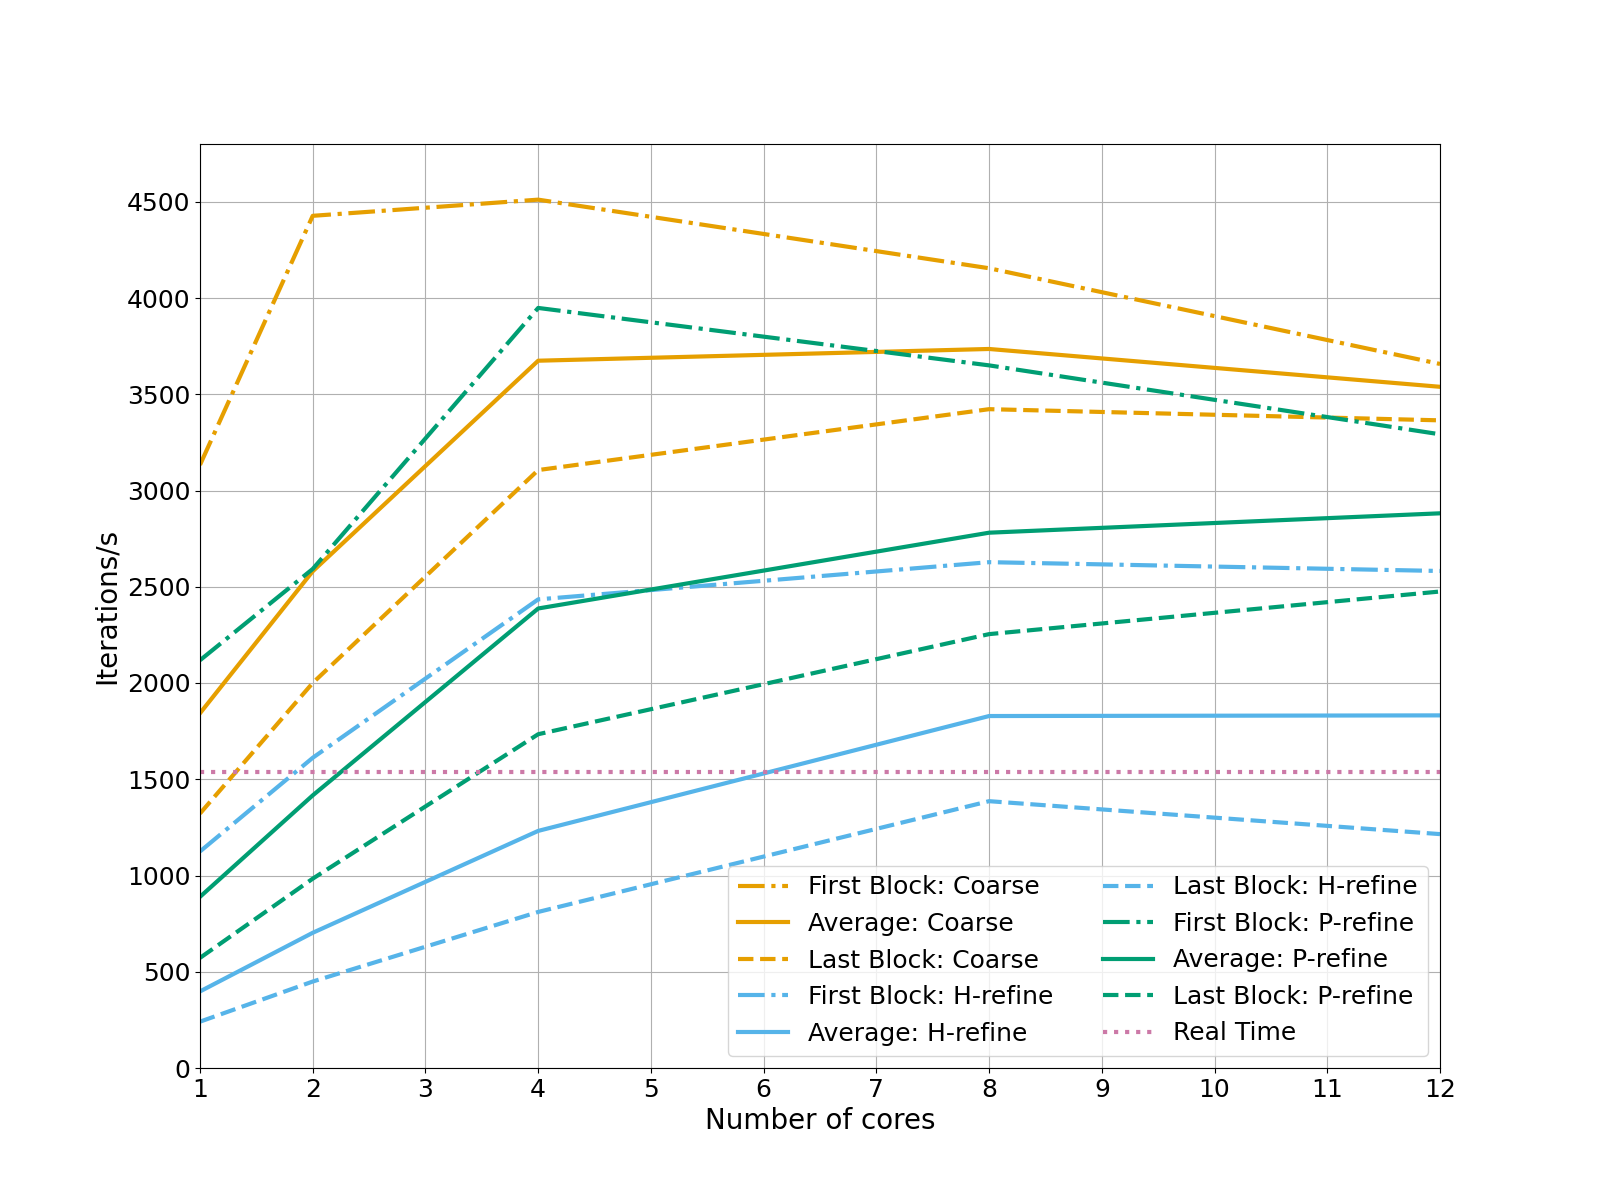
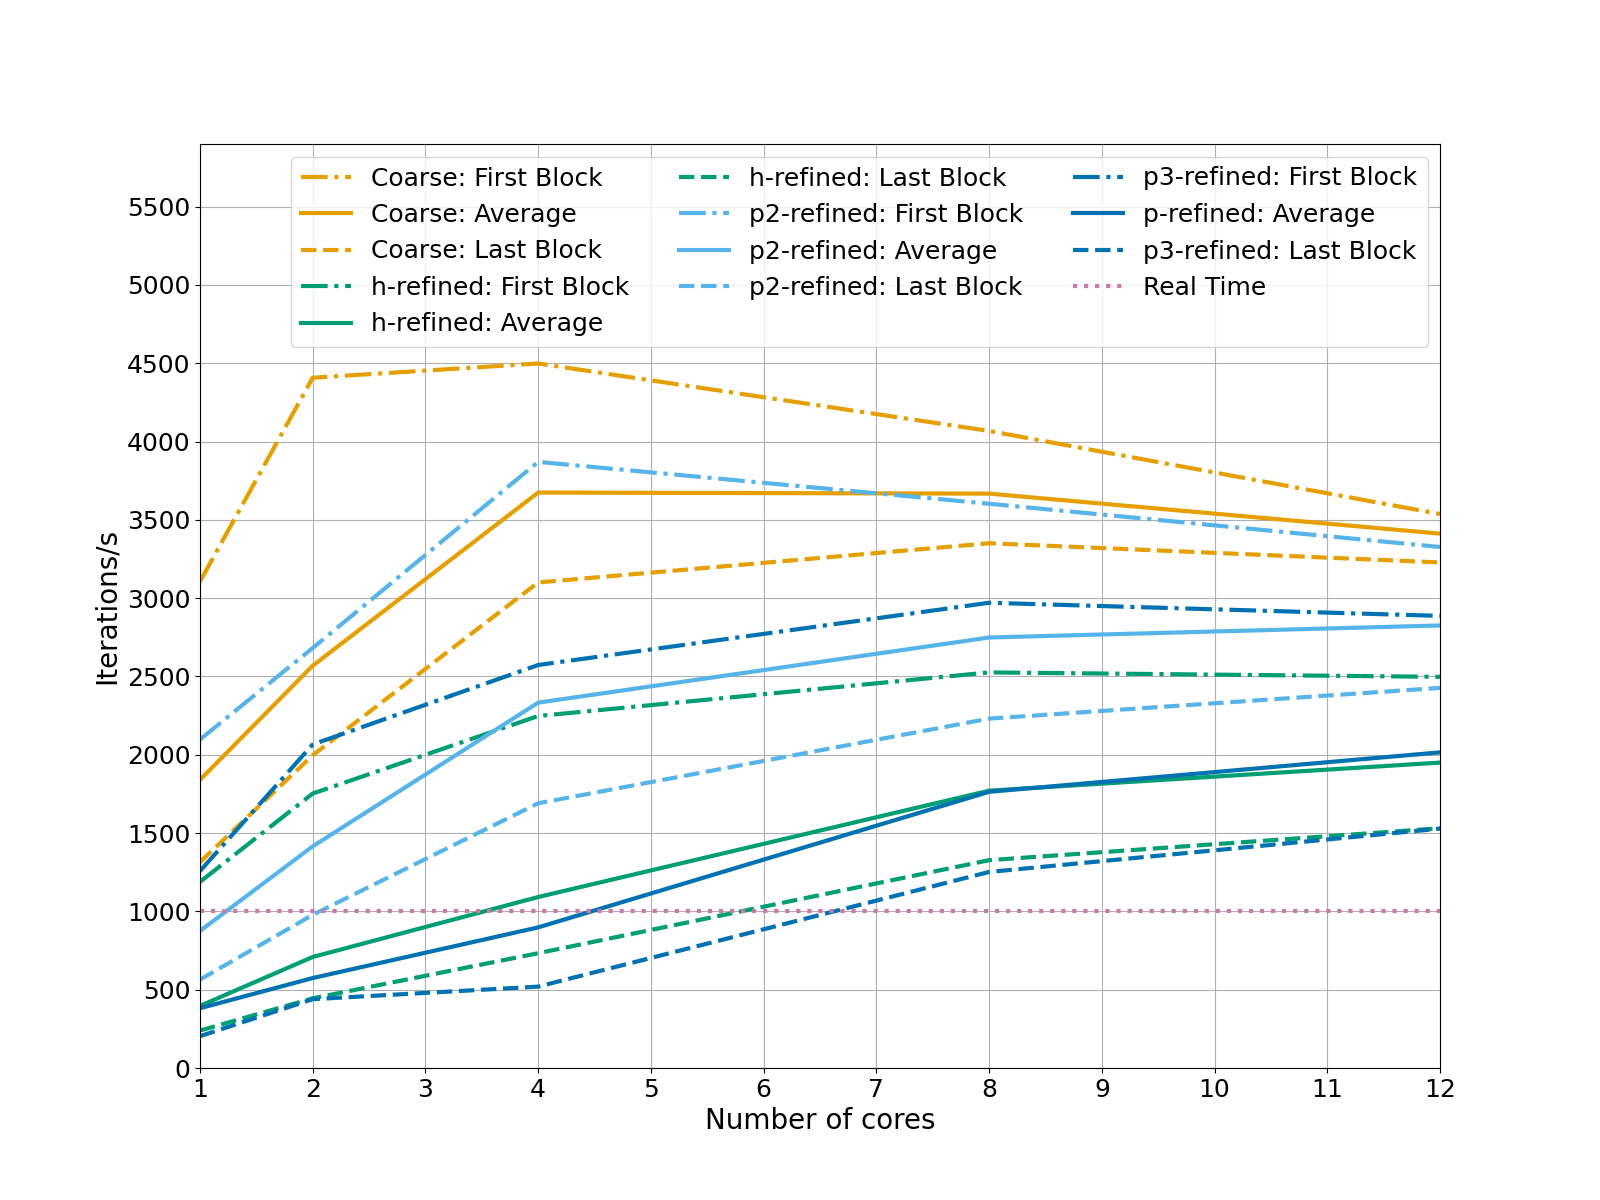
Update figures

diff --git a/performance/dwell_rook/analysis.py b/performance/dwell_rook/analysis.py
@@ -4,77 +4,111 @@ import matplotlib.pyplot as plt
 from matplotlib.ticker import MultipleLocator
 import numpy as np
 
-colors = ['#E69F00', '#56B4E9', '#009E73', '#CC79A7']
+colors = ['#E69F00', '#56B4E9', '#009E73', '#0072b2', '#CC79A7']
 color_coarse = colors[0]
-color_fine = colors[1]
-color_p2 = colors[2]
-color_ideal = colors[3]
+color_fine = colors[2]
+color_p2 = colors[1]
+color_p3 = colors[3]
+color_ideal = colors[4]
 
 n_procs = [1, 2, 4, 8, 12]
 
 # Coarse Mesh
 #------------
-time_coarse = [9266.1, 6617.7, 4647.7, 4571.9, 4825.8]
-ideal_strong_time_coarse = [9266.1, 9266.1/2, 9266.1/4, 9266.1/8, 9266.1/12]
+time_coarse = [6031.9, 4320.7, 3020.7, 3026.3, 3252.9]
+time_coarse_0 = time_coarse[0]
+ideal_strong_time_coarse = [time_coarse_0, time_coarse_0/2, time_coarse_0/4,
+        time_coarse_0/8, time_coarse_0/12]
 
-speedup_coarse = [9266.1/9266.1, 9266.1/6617.7, 9266.1/4647.7, 9266.1/4571.9, 9266.1/4825.8]
-efficiency_coarse = [9266.1/9266.1, 9266.1/(6617.7*2), 9266.1/(4647.7*4),
-        9266.1/(4571.9*8), 9266.1/(4825.8*12)]
+speedup_coarse = [time_coarse_0/x for x in time_coarse]
+efficiency_coarse = [time_coarse_0/time_coarse_0, time_coarse_0/(time_coarse[1]*2),
+        time_coarse_0/(time_coarse[2]*4), time_coarse_0/(time_coarse[3]*8),
+        time_coarse_0/(time_coarse[4]*12)]
 
-min_throughput_coarse = [903.5, 1580.4, 2545.2, 2549.4, 1877.2]
-max_throughput_coarse = [3958.1, 4648.5, 4705.7, 4329.8, 3935.5]
-average_throughput_coarse = [1842.9, 2580.4, 3674.2, 3735.2, 3538.7]
-realtime_throughput_coarse = [1538.4, 1538.4, 1538.4, 1538.4, 1538.4]
-first_block_throughput_coarse = [3132.9, 4426.9, 4510.9, 4154.5, 3657.4]
-last_block_throughput_coarse = [1322.0, 2000.3, 3106.2, 3422.5, 3364.4]
-average_throughput_speedup_coarse = [1842.9/1842.9, 2580.4/1842.9, 3674.2/1842.9, 3735.2/1842.9, 3538.7/1842.9]
-first_block_throughput_speedup_coarse = [3132.9/3132.9, 4426.9/3132.9, 4510.9/3132.9, 4154.5/3132.9,
-        3657.4/3132.9]
-last_block_throughput_speedup_coarse = [1322.0/1322.0, 2000.3/1322.0, 3106.2/1322.0, 3422.5/1322.0,
-        3364.4/1322.0]
+average_throughput_coarse = [1840.1, 2568.8, 3674.4, 3667.6, 3412.1]
+realtime_throughput_coarse = [1000, 1000, 1000, 1000, 1000]
+first_block_throughput_coarse = [3106.7, 4407.5, 4498.6, 4067.8, 3537.2]
+last_block_throughput_coarse = [1314.9, 1996.9, 3100.4, 3350.6, 3228.2]
+average_throughput_coarse_0 = average_throughput_coarse[0]
+average_throughput_speedup_coarse = [x/average_throughput_coarse_0 for x in average_throughput_coarse]
+first_throughput_coarse_0 = first_block_throughput_coarse[0]
+first_block_throughput_speedup_coarse = [x/first_throughput_coarse_0 for x in first_block_throughput_coarse]
+last_throughput_coarse_0 = last_block_throughput_coarse[0]
+last_block_throughput_speedup_coarse = [x/last_throughput_coarse_0 for x in last_block_throughput_coarse]
 
-eval_percent_coarse = [76.24, 67.0, 70.1, 61.3, 58.6]
+eval_percent_coarse = [75.8, 66.6, 69.6, 60.9, 58.4]
 
 # Fine Mesh
 #----------
-time_fine = [42928.1, 24310.6, 13864.4, 9339.8, 9322.2]
-ideal_strong_time_fine = [42928.1, 42928.1/2 ,42928.1/4, 42928.1/8, 42928.1/12]
+time_fine = [27993.6, 15656.3, 10166.0, 6267.9, 5691.6]
+time_fine_0 = time_fine[0]
+ideal_strong_time_fine = [time_fine_0, time_fine_0/2, time_fine_0/4,
+        time_fine_0/8, time_fine_0/12]
 
-speedup_fine = [42928.1/42928.1, 42928.1/24310.6, 42928.1/13864.4, 42928.1/9339.8, 42928.1/9322.2]
-efficiency_fine = [42928.1/42928.1, 42928.1/(24310.6*2), 42928.1/(13864.4*4),
-        42928.1/(9339.8*8), 42928.1/(9322.2*12)] 
+speedup_fine = [time_fine_0/x for x in time_fine]
+efficiency_fine = [time_fine_0/time_fine_0, time_fine_0/(time_fine[1]*2),
+        time_fine_0/(time_fine[2]*4), time_fine_0/(time_fine[3]*8),
+        time_fine_0/(time_fine[4]*12)]
 
-min_throughput_fine = [1.5, 1.8, 13.5, 1.9, 1.8]
-max_throughput_fine = [1264.7, 1783.9, 2669.0, 2904.3, 2923.3]
-average_throughput_fine = [397.8, 702.4, 1231.7, 1828.4, 1831.8]
-first_block_throughput_fine = [1124.9, 1611.5, 2434.4, 2627.7, 2581.9]
-last_block_throughput_fine = [240.7, 449.2, 810.7, 1386.1, 1215.0]
-average_throughput_speedup_fine = [397.8/397.8, 702.4/397.8, 1231.7/397.8, 1828.4/397.8, 1831.8/397.8]
-first_block_throughput_speedup_fine = [1124.9/1124.9, 1611.5/1124.9, 2434.4/1124.9, 2627.7/1124.9, 2581.9/1124.9]
-last_block_throughput_speedup_fine = [240.7/240.7, 449.2/240.7, 810.7/240.7, 1386.1/240.7, 1215.0/240.7]
+average_throughput_fine = [396.5, 708.9, 1091.8, 1770.8, 1950.1]
+first_block_throughput_fine = [1188.5, 1752.5, 2247.6, 2525.9, 2497.7]
+last_block_throughput_fine = [239.0, 444.9, 733.0, 1327.0, 1530.8]
+average_throughput_fine_0 = average_throughput_fine[0]
+average_throughput_speedup_fine = [x/average_throughput_fine_0 for x in average_throughput_fine]
+first_throughput_fine_0 = first_block_throughput_fine[0]
+first_block_throughput_speedup_fine = [x/first_throughput_fine_0 for x in first_block_throughput_fine]
+last_throughput_fine_0 = last_block_throughput_fine[0]
+last_block_throughput_speedup_fine = [x/last_throughput_fine_0 for x in last_block_throughput_fine]
 
-eval_percent_fine = [93.6, 88.7, 87.5, 77.8, 73.5]
+eval_percent_fine = [95.3, 90.7, 86.7, 77.5, 72.1]
 
-# P-Refinement
-#-------------
-time_p2 = [19202.9, 12057.6, 7153.9, 6141.0, 5926.4]
-ideal_strong_time_p2 = [19202.9, 19202.9/2, 19202.9/4, 19202.9/8, 19202.9/12]
+# P2-Refinement
+#--------------
+time_p2 = [12682.6, 7836.5, 4757.7, 4037.8, 3927.9]
+time_p2_0 = time_p2[0]
+ideal_strong_time_p2 = [time_p2_0, time_p2_0/2, time_p2_0/4,
+        time_p2_0/8, time_p2_0/12]
 
-speedup_p2 = [19202.9/19202.9, 19202.9/12057.6, 19202.9/7153.9, 19202.9/6141.0,
-        19202.9/5926.4]
-efficiency_p2 = [19202.9/19202.9, 19202.9/(12057.6*2), 19202.9/(7153.9*4),
-        19202.9/(6141.0*8), 19202.9/(5926.4*12)] 
+speedup_p2 = [time_p2_0/x for x in time_p2]
+efficiency_p2 = [time_p2_0/time_p2_0, time_p2_0/(time_p2[1]*2),
+        time_p2_0/(time_p2[2]*4), time_p2_0/(time_p2[3]*8),
+        time_p2_0/(time_p2[4]*12)]
 
-min_throughput_p2 = [355.6, 694.8, 434.0, 1756.5, 1560.6]
-max_throughput_p2 = [2303.9, 2748.1, 4230.7, 3809.2, 3770.7]
-average_throughput_p2 = [889.2, 1416.2, 2387.1, 2780.8, 2881.5]
-first_block_throughput_p2 = [2118.2, 2592.5, 3948.4, 3650.0, 3292.0]
-last_block_throughput_p2 = [572.0, 983.5, 1733.9, 2253.9, 2475.3]
-average_throughput_speedup_p2 = [889.2/889.2, 1416.2/889.2, 2387.1/889.2, 2780.8/889.2, 2881.5/889.2]
-first_block_throughput_speedup_p2 = [2118.2/2118.2, 2592.5/2118.2, 3948.4/2118.2, 3650.0/2118.2, 3292.0/2118.2]
-last_block_throughput_speedup_p2 = [572.0/572.0, 983.5/572.0, 1733.9/572.0, 2253.9/572.0, 2475.3/572.0]
+average_throughput_p2 = [875.1, 1415.3, 2332.9, 2748.8, 2825.7]
+first_block_throughput_p2 = [2097.4, 2682.0, 3870.1, 3602.9, 3326.9]
+last_block_throughput_p2 = [564.3, 978.2, 1690.4, 2230.8, 2427.2]
+average_throughput_p2_0 = average_throughput_p2[0]
+average_throughput_speedup_p2 = [x/average_throughput_p2_0 for x in average_throughput_p2]
+first_throughput_p2_0 = first_block_throughput_p2[0]
+first_block_throughput_speedup_p2 = [x/first_throughput_p2_0 for x in first_block_throughput_p2]
+last_throughput_p2_0 = last_block_throughput_p2[0]
+last_block_throughput_speedup_p2 = [x/last_throughput_p2_0 for x in last_block_throughput_p2]
 
-eval_percent_fine = [87.9, 79.6, 79.6, 68.9, 64.6]
+eval_percent_fine = [87.8, 79.7, 79.2, 68.7, 64.2]
+
+# P3-Refinement
+#--------------
+time_p3 = [29076.8, 19321.7, 12362.0, 6293.8, 5507.1]
+time_p3_0 = time_p3[0]
+ideal_strong_time_p3 = [time_p3_0, time_p3_0/2, time_p3_0/4,
+        time_p3_0/8, time_p3_0/12]
+
+speedup_p3 = [time_p3_0/x for x in time_p3]
+efficiency_p3 = [time_p3_0/time_p3_0, time_p3_0/(time_p3[1]*2),
+        time_p3_0/(time_p3[2]*4), time_p3_0/(time_p3[3]*8),
+        time_p3_0/(time_p3[4]*12)]
+
+average_throughput_p3 = [381.7, 574.4, 897.8, 1763.5, 2015.4]
+first_block_throughput_p3 = [1257.6, 2065.9, 2573.2, 2970.6, 2886.9]
+last_block_throughput_p3 = [203.3, 439.4, 519.7, 1251.8, 1528.3]
+average_throughput_p3_0 = average_throughput_p3[0]
+average_throughput_speedup_p3 = [x/average_throughput_p3_0 for x in average_throughput_p3]
+first_throughput_p3_0 = first_block_throughput_p3[0]
+first_block_throughput_speedup_p3 = [x/first_throughput_p3_0 for x in first_block_throughput_p3]
+last_throughput_p3_0 = last_block_throughput_p3[0]
+last_block_throughput_speedup_p3 = [x/last_throughput_p3_0 for x in last_block_throughput_p3]
+
+eval_percent_fine = [94.0, 91.9, 88.0, 76.5, 71.6]
 
 ######################
 # PLOT PARAMETERS
@@ -93,16 +127,21 @@ ideal_strong_coarse_plt, = plt.loglog(n_procs, ideal_strong_time_coarse, '--',
         color = color_ideal, linewidth = 3, markersize = 12,
         label='Ideal Strong Scaling')
 time_fine_plt, = plt.loglog(n_procs, time_fine, '*-', color = color_fine, linewidth = 3, markersize = 12,
-        label='H-refined Simulation')
+        label='h-refined Simulation')
 ideal_strong_fine_plt, = plt.loglog(n_procs, ideal_strong_time_fine, '--', color
         = color_ideal, linewidth = 3, markersize = 12,
         label='Ideal Strong Scaling')
 time_p2_plt, = plt.loglog(n_procs, time_p2, '*-',  color = color_p2, linewidth = 3, markersize = 12,
-        label='P-refine Simulation')
+        label='p2-refine Simulation')
 ideal_strong_p2_plt, = plt.loglog(n_procs, ideal_strong_time_p2, '--', color =
         color_ideal, linewidth = 3, markersize = 12,
         label='Ideal Strong Scaling')
-ax.legend(handles=[time_coarse_plt, time_fine_plt, time_p2_plt, ideal_strong_coarse_plt], fontsize = 18)
+time_p3_plt, = plt.loglog(n_procs, time_p3, '*-',  color = color_p3, linewidth = 3, markersize = 12,
+        label='p3-refine Simulation')
+ideal_strong_p3_plt, = plt.loglog(n_procs, ideal_strong_time_p3, '--', color =
+        color_ideal, linewidth = 3, markersize = 12,
+        label='Ideal Strong Scaling')
+ax.legend(handles=[time_coarse_plt, time_fine_plt, time_p2_plt, time_p3_plt, ideal_strong_coarse_plt], fontsize = 18)
 plt.xlabel('Number of cores', fontsize = 20)
 plt.ylabel('Time (s)', fontsize = 20)
 ax.grid(which='both')
@@ -119,13 +158,20 @@ speedup_coarse_plt, = plt.plot(n_procs, speedup_coarse, '-', color =
         label='Coarse Simulation')
 speedup_fine_plt, = plt.plot(n_procs, speedup_fine, '-', color =
         color_fine, linewidth = 3, markersize = 12,
-        label='H-refined Simulation')
+        label='h-refined Simulation')
 speedup_p2_plt, = plt.plot(n_procs, speedup_p2, '-', color =
         color_p2, linewidth = 3, markersize = 12,
-        label='P-refined Simulation')
+        label='p2-refined Simulation')
+speedup_p3_plt, = plt.plot(n_procs, speedup_p3, '-', color =
+        color_p3, linewidth = 3, markersize = 12,
+        label='p3-refined Simulation')
 ideal_speedup_plt, = plt.plot(n_procs, n_procs , '-', color = color_ideal, linewidth = 3, markersize = 12,
         label='Ideal Scaling')
-ax.legend(handles=[speedup_coarse_plt, speedup_fine_plt, speedup_p2_plt,  ideal_speedup_plt], fontsize = 18)
+plt.xlim(1, 12)
+plt.ylim(1, 8)
+plt.xticks(np.arange(1, 13, 1))
+plt.yticks(np.arange(1, 9, 1))
+ax.legend(handles=[speedup_coarse_plt, speedup_fine_plt, speedup_p2_plt, speedup_p3_plt, ideal_speedup_plt], fontsize = 18)
 plt.xlabel('Number of cores', fontsize = 20)
 plt.ylabel('Speedup', fontsize = 20)
 ax.grid(which='both')
@@ -140,44 +186,54 @@ fig, ax = plt.subplots(figsize=(16, 12), dpi = 100)
 
 avg_coarse_plt, = plt.plot(n_procs, average_throughput_coarse, '-', color =
         color_coarse, linewidth = 3, markersize = 12,
-        label='Average: Coarse')
+        label='Coarse: Average')
 first_coarse_plt, = plt.plot(n_procs, first_block_throughput_coarse, '-.', color
         = color_coarse, linewidth = 3, 
-        markersize = 12, label='First Block: Coarse')
+        markersize = 12, label='Coarse: First Block')
 last_coarse_plt, = plt.plot(n_procs, last_block_throughput_coarse, '--', color =
         color_coarse, linewidth = 3, 
-        markersize = 12, label='Last Block: Coarse')
+        markersize = 12, label='Coarse: Last Block')
 
 avg_fine_plt, = plt.plot(n_procs, average_throughput_fine, '-', color =
         color_fine, linewidth = 3, markersize = 12,
-        label='Average: H-refine')
+        label='h-refined: Average')
 first_fine_plt, = plt.plot(n_procs, first_block_throughput_fine, '-.', color =
         color_fine, linewidth = 3, 
-        markersize = 12, label='First Block: H-refine')
+        markersize = 12, label='h-refined: First Block')
 last_fine_plt, = plt.plot(n_procs, last_block_throughput_fine, '--', color =
         color_fine, linewidth = 3, 
-        markersize = 12, label='Last Block: H-refine')
+        markersize = 12, label='h-refined: Last Block')
 
 avg_p2_plt, = plt.plot(n_procs, average_throughput_p2, '-', color =
         color_p2, linewidth = 3, markersize = 12,
-        label='Average: P-refine')
+        label='p2-refined: Average')
 first_p2_plt, = plt.plot(n_procs, first_block_throughput_p2, '-.',
         color = color_p2, linewidth = 3, 
-        markersize = 12, label='First Block: P-refine')
+        markersize = 12, label='p2-refined: First Block')
 last_p2_plt, = plt.plot(n_procs, last_block_throughput_p2, '--', color
         = color_p2, linewidth = 3, 
-        markersize = 12, label='Last Block: P-refine')
+        markersize = 12, label='p2-refined: Last Block')
+
+avg_p3_plt, = plt.plot(n_procs, average_throughput_p3, '-', color =
+        color_p3, linewidth = 3, markersize = 12,
+        label='p-refined: Average')
+first_p3_plt, = plt.plot(n_procs, first_block_throughput_p3, '-.',
+        color = color_p3, linewidth = 3, 
+        markersize = 12, label='p3-refined: First Block')
+last_p3_plt, = plt.plot(n_procs, last_block_throughput_p3, '--', color
+        = color_p3, linewidth = 3, 
+        markersize = 12, label='p3-refined: Last Block')
 
 realtime_coarse_plt, = plt.plot(n_procs, realtime_throughput_coarse, ':', color
         = color_ideal, linewidth = 3, markersize = 12, label='Real Time')
 ax.legend(handles=[first_coarse_plt, avg_coarse_plt, last_coarse_plt,
     first_fine_plt, avg_fine_plt, last_fine_plt, first_p2_plt, avg_p2_plt,
-    last_p2_plt, realtime_coarse_plt], ncols = 2, fontsize = 18)
+    last_p2_plt, first_p3_plt, avg_p3_plt, last_p3_plt, realtime_coarse_plt], ncols = 3, fontsize = 18)
 #plt.title('Throughput' , fontsize = 20)
 plt.xlabel('Number of cores', fontsize = 20)
 plt.ylabel('Iterations/s', fontsize = 20)
 plt.xlim(1, 12)
-plt.ylim(0, 4800)
+plt.ylim(0, 5900)
 ax.xaxis.set_major_locator(MultipleLocator(1))
 ax.yaxis.set_major_locator(MultipleLocator(500))
 ax.grid(True)
@@ -192,39 +248,53 @@ fig, ax = plt.subplots(figsize=(16, 12), dpi = 100)
 
 avg_speedup_coarse_plt, = plt.plot(n_procs, average_throughput_speedup_coarse, '-', color =
         color_coarse, linewidth = 3, markersize = 12,
-        label='Average: Coarse')
+        label='Coarse: Average')
 first_speedup_coarse_plt, = plt.plot(n_procs, first_block_throughput_speedup_coarse, '-.', color
         = color_coarse, linewidth = 3, 
-        markersize = 12, label='First Block: Coarse')
+        markersize = 12, label='Coarse: First Block')
 last_speedup_coarse_plt, = plt.plot(n_procs, last_block_throughput_speedup_coarse, '--', color =
         color_coarse, linewidth = 3, 
-        markersize = 12, label='Last Block: Coarse')
+        markersize = 12, label='Coarse: Last Block')
 
 avg_speedup_fine_plt, = plt.plot(n_procs, average_throughput_speedup_fine, '-', color =
         color_fine, linewidth = 3, markersize = 12,
-        label='Average: H-refine')
+        label='h-refined: Average')
 first_speedup_fine_plt, = plt.plot(n_procs, first_block_throughput_speedup_fine, '-.', color =
         color_fine, linewidth = 3, 
-        markersize = 12, label='First Block: H-refine')
+        markersize = 12, label='h-refined: First Block')
 last_speedup_fine_plt, = plt.plot(n_procs, last_block_throughput_speedup_fine, '--', color =
         color_fine, linewidth = 3, 
-        markersize = 12, label='Last Block: H-refine')
+        markersize = 12, label='h-refined: Last Block')
 
 avg_speedup_p2_plt, = plt.plot(n_procs, average_throughput_speedup_p2, '-', color =
         color_p2, linewidth = 3, markersize = 12,
-        label='Average: P-refine')
+        label='Average: P2-refine')
 first_speedup_p2_plt, = plt.plot(n_procs, first_block_throughput_speedup_p2, '-.',
         color = color_p2, linewidth = 3, 
-        markersize = 12, label='First Block: P-refine')
+        markersize = 12, label='p2-refined: First Block')
 last_speedup_p2_plt, = plt.plot(n_procs, last_block_throughput_speedup_p2, '--', color
         = color_p2, linewidth = 3, 
-        markersize = 12, label='Last Block: P-refine')
+        markersize = 12, label='p2-refined: Last Block')
+
+avg_speedup_p3_plt, = plt.plot(n_procs, average_throughput_speedup_p3, '-', color =
+        color_p3, linewidth = 3, markersize = 12,
+        label='Average: P3-refine')
+first_speedup_p3_plt, = plt.plot(n_procs, first_block_throughput_speedup_p3, '-.',
+        color = color_p3, linewidth = 3, 
+        markersize = 12, label='p3-refined: First Block')
+last_speedup_p3_plt, = plt.plot(n_procs, last_block_throughput_speedup_p3, '--', color
+        = color_p3, linewidth = 3, 
+        markersize = 12, label='p3-refined: Last Block')
 ideal_speedup_plt, = plt.plot(n_procs, n_procs , '-', color = color_ideal, linewidth = 3, markersize = 12,
         label='Ideal Scaling')
 
+plt.xlim(1, 12)
+plt.ylim(1, 8.8)
+plt.xticks(np.arange(1, 13, 1))
+plt.yticks(np.arange(1, 9, 1))
 ax.legend(handles=[first_speedup_coarse_plt, avg_speedup_coarse_plt, last_speedup_coarse_plt,
     first_speedup_fine_plt, avg_speedup_fine_plt, last_speedup_fine_plt, first_speedup_p2_plt, avg_speedup_p2_plt,
-    last_speedup_p2_plt, ideal_speedup_plt],  ncols = 2, fontsize = 18)
+    last_speedup_p2_plt, first_speedup_p3_plt, avg_speedup_p3_plt, last_speedup_p3_plt, ideal_speedup_plt],  ncols = 2, fontsize = 18)
 #plt.title('Throughput' , fontsize = 20)
 plt.xlabel('Number of cores', fontsize = 20)
 plt.ylabel('Speedup', fontsize = 20)
